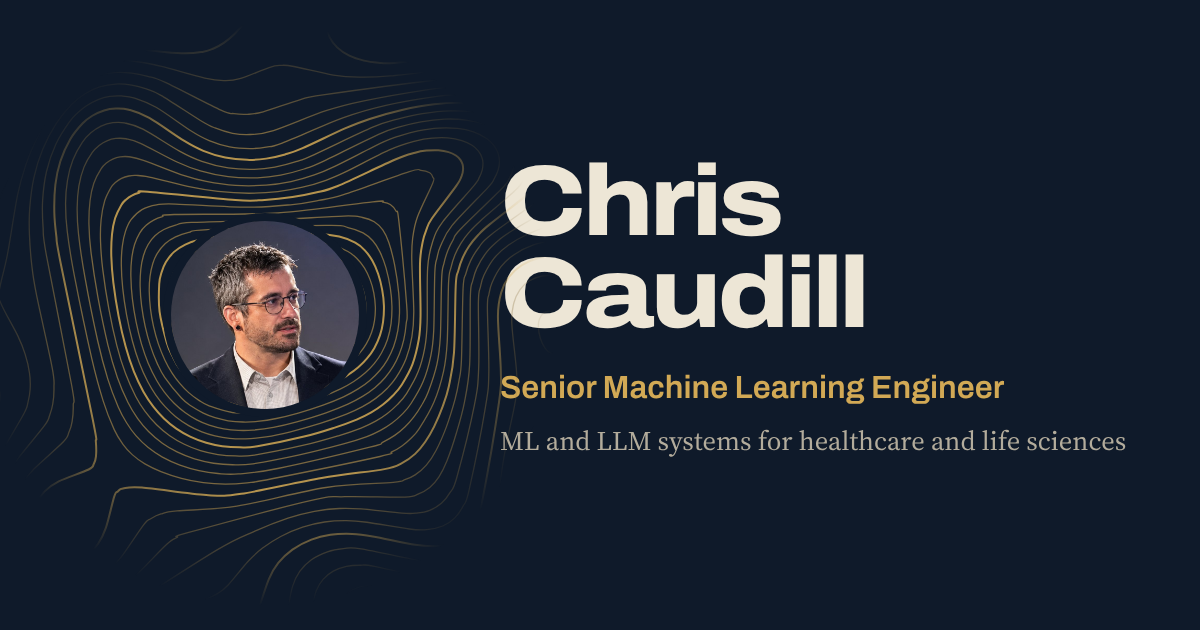
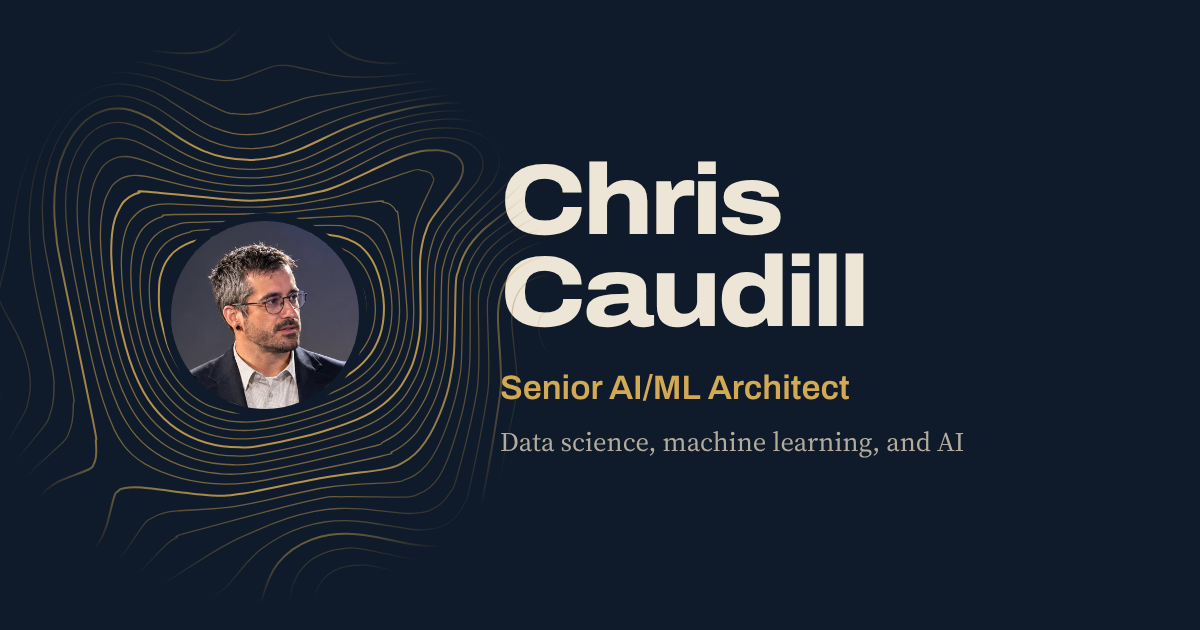
Add light theme toggle, rewrite copy, update title
- Light "day survey" theme alongside the default dark one, chosen with
  a header toggle; the choice is remembered and applied before first
  paint, and the browser theme color follows it
- Plainer copy throughout; title is now Senior AI/ML Architect, with
  more than a decade across data science, machine learning, and AI
- Metadata, JSON-LD, and social preview image updated to match

Claude-Session: https://claude.ai/code/session_015jcJZEzQ6ZcDAWNu1TrFER

diff --git a/index.html b/index.html
@@ -3,23 +3,33 @@
 <head>
   <meta charset="utf-8">
   <meta name="viewport" content="width=device-width, initial-scale=1">
-  <title>Chris Caudill, Senior Machine Learning Engineer</title>
-  <meta name="description" content="Chris Caudill is a senior machine learning engineer at Snowflake who builds ML and LLM systems for healthcare and life sciences, from retrieval-augmented generation to production ML platforms.">
+  <title>Chris Caudill, Senior AI/ML Architect</title>
+  <meta name="description" content="Chris Caudill is a Senior AI/ML Architect at Snowflake with more than a decade of experience across data science, machine learning, and AI, focused on healthcare and life sciences.">
   <link rel="canonical" href="https://cscaudill.github.io/">
   <meta name="theme-color" content="#0f1a2a">
-  <meta name="color-scheme" content="dark">
+  <meta name="color-scheme" content="dark light">
 
   <meta property="og:type" content="profile">
-  <meta property="og:title" content="Chris Caudill, Senior Machine Learning Engineer">
-  <meta property="og:description" content="ML and LLM systems for healthcare and life sciences, built where the data already lives.">
+  <meta property="og:title" content="Chris Caudill, Senior AI/ML Architect">
+  <meta property="og:description" content="Senior AI/ML Architect at Snowflake. More than a decade across data science, machine learning, and AI.">
   <meta property="og:url" content="https://cscaudill.github.io/">
   <meta property="og:image" content="https://cscaudill.github.io/assets/img/og.png">
   <meta property="og:image:width" content="1200">
   <meta property="og:image:height" content="630">
-  <meta property="og:image:alt" content="Chris Caudill, Senior Machine Learning Engineer">
+  <meta property="og:image:alt" content="Chris Caudill, Senior AI/ML Architect">
   <meta name="twitter:card" content="summary_large_image">
 
-  <script>document.documentElement.classList.add("js");</script>
+  <script>
+    (function () {
+      var d = document.documentElement, t = null;
+      d.classList.add("js");
+      try { t = localStorage.getItem("theme"); } catch (e) {}
+      if (t === "light") {
+        d.setAttribute("data-theme", "light");
+        document.querySelector('meta[name="theme-color"]').setAttribute("content", "#f5f6f8");
+      }
+    })();
+  </script>
   <link rel="icon" href="favicon.svg" type="image/svg+xml">
   <link rel="apple-touch-icon" href="assets/img/apple-touch-icon.png">
   <link rel="preload" href="assets/fonts/archivo.woff2" as="font" type="font/woff2" crossorigin>
@@ -31,13 +41,13 @@
     "@context": "https://schema.org",
     "@type": "Person",
     "name": "Chris Caudill",
-    "jobTitle": "Senior Machine Learning Engineer",
+    "jobTitle": "Senior AI/ML Architect",
     "worksFor": { "@type": "Organization", "name": "Snowflake" },
     "url": "https://cscaudill.github.io/",
     "image": "https://cscaudill.github.io/assets/img/portrait.jpg",
     "email": "mailto:cscaudill3@gmail.com",
     "sameAs": ["https://github.com/cscaudill"],
-    "knowsAbout": ["Machine learning", "Large language models", "Retrieval-augmented generation", "Snowflake", "AWS", "Healthcare and life sciences data", "MLOps"]
+    "knowsAbout": ["Data science", "Machine learning", "Artificial intelligence", "Large language models", "Retrieval-augmented generation", "Snowflake", "AWS", "Healthcare and life sciences data", "MLOps"]
   }
   </script>
 </head>
@@ -61,6 +71,11 @@
           <li><a class="button button--small" href="#contact">Contact</a></li>
         </ul>
       </nav>
+      <button class="theme-toggle" type="button" aria-pressed="false" title="Switch to light theme">
+        <span class="visually-hidden">Light theme</span>
+        <svg class="theme-toggle__sun" viewBox="0 0 24 24" aria-hidden="true" focusable="false"><circle cx="12" cy="12" r="4.2" fill="currentColor"/><g stroke="currentColor" stroke-width="2" stroke-linecap="round"><path d="M12 2.5v2.2M12 19.3v2.2M2.5 12h2.2M19.3 12h2.2M5.3 5.3l1.6 1.6M17.1 17.1l1.6 1.6M5.3 18.7l1.6-1.6M17.1 6.9l1.6-1.6"/></g></svg>
+        <svg class="theme-toggle__moon" viewBox="0 0 24 24" aria-hidden="true" focusable="false"><path fill="currentColor" d="M20.2 14.6A8.5 8.5 0 0 1 9.4 3.8a8.5 8.5 0 1 0 10.8 10.8Z"/></svg>
+      </button>
     </div>
     <div class="scroll-progress" aria-hidden="true"></div>
   </header>
@@ -70,9 +85,9 @@
       <div class="wrap hero__grid">
         <div class="hero__text">
           <h1 id="hero-title" class="hero__name"><span class="line"><span>Chris</span></span> <span class="line"><span>Caudill</span></span></h1>
-          <p class="hero__role">Senior Machine Learning Engineer at Snowflake</p>
-          <p class="hero__lead">I build machine learning and LLM systems that run where the data already lives, with a focus on healthcare and life sciences, where privacy isn&rsquo;t optional and &ldquo;it works on my laptop&rdquo; isn&rsquo;t good enough.</p>
-          <p class="hero__path">More than a decade in data, from ExxonMobil to AWS to Snowflake.</p>
+          <p class="hero__role">Senior AI/ML Architect at Snowflake</p>
+          <p class="hero__lead">I design and build machine learning and AI systems on enterprise data platforms. Most of my recent work is in healthcare and life sciences.</p>
+          <p class="hero__path">I have more than a decade of experience across data science, machine learning, and AI, from statistical modeling to production ML platforms and LLM applications, at ExxonMobil, AWS, and Snowflake.</p>
           <div class="hero__actions">
             <a class="button" href="mailto:cscaudill3@gmail.com">Email me</a>
             <a class="button button--quiet" href="#work">See selected work</a>
@@ -100,18 +115,18 @@
           <div class="focus">
             <div class="focus__item" data-reveal>
               <h3>Healthcare and life sciences ML</h3>
-              <p>Models for clinical and operational data, designed around privacy from the start: PHI-aware profiling, small-cell suppression, and synthetic data when the real thing can&rsquo;t leave the building.</p>
+              <p>Machine learning on clinical and operational data with strict privacy requirements, including PHI-aware data profiling, small-cell suppression, and synthetic data for development when real data isn&rsquo;t accessible.</p>
             </div>
             <div class="focus__item" data-reveal>
               <h3>LLM and RAG applications</h3>
-              <p>Retrieval-augmented apps that are measured, not eyeballed. Retrieval quality, grounding, and evaluation are part of the build, not an afterthought.</p>
+              <p>Retrieval-augmented generation applications with evaluation built in from the start, covering retrieval quality, grounding, and answer accuracy.</p>
             </div>
             <div class="focus__item" data-reveal>
               <h3>ML platforms and infrastructure</h3>
-              <p>The plumbing that gets models into production and keeps them healthy there: pipelines, CI/CD, monitoring, and checks that run after every deploy.</p>
+              <p>Pipelines, CI/CD, monitoring, and post-deployment checks that take models into production and keep them reliable.</p>
             </div>
           </div>
-          <p class="aside" data-reveal>I also teach. Explaining hard ideas plainly to analysts and engineers has been part of my work for years, and it&rsquo;s still one of my favorite parts.</p>
+          <p class="aside" data-reveal>I also teach data science and machine learning to analysts and engineers.</p>
         </div>
       </div>
     </section>
@@ -157,18 +172,18 @@
           <ol class="timeline">
             <li class="timeline__item" data-reveal>
               <h3>Snowflake</h3>
-              <p class="timeline__role">Senior Machine Learning Engineer</p>
-              <p>Building ML and generative AI solutions on Snowflake, with Cortex AI and Snowflake-native ML, for healthcare and life sciences use cases. I speak and write about running production ML on the platform.</p>
+              <p class="timeline__role">Senior AI/ML Architect</p>
+              <p>Design ML and generative AI solutions on Snowflake, using Cortex AI and Snowflake-native ML, primarily for healthcare and life sciences. I also speak and write about production ML on the platform.</p>
             </li>
             <li class="timeline__item" data-reveal>
               <h3>Amazon Web Services</h3>
               <p class="timeline__role">Machine learning</p>
-              <p>About five years designing, building, and running machine learning workloads in the cloud.</p>
+              <p>About five years designing, building, and operating machine learning workloads in the cloud.</p>
             </li>
             <li class="timeline__item" data-reveal>
               <h3>ExxonMobil</h3>
               <p class="timeline__role">Data Scientist</p>
-              <p>Where I started: applying statistics and machine learning to large-scale industrial data.</p>
+              <p>Applied statistics and machine learning to large-scale industrial data.</p>
             </li>
           </ol>
         </div>
@@ -190,12 +205,12 @@
             <article class="talk" data-reveal>
               <p class="talk__kind">Conference talk</p>
               <h3>Building and evaluating RAG applications with Snowflake Cortex Search</h3>
-              <p>A talk to a room of about 200 on building retrieval-augmented generation apps, and on how to tell whether they actually work.</p>
+              <p>A talk for an audience of about 200 on building retrieval-augmented generation applications and evaluating their quality.</p>
             </article>
             <article class="talk" data-reveal>
               <p class="talk__kind">Article</p>
               <h3>Enterprise machine learning on Snowflake</h3>
-              <p>A public technical article on running enterprise ML where the data already lives.</p>
+              <p>A technical article on running enterprise machine learning on Snowflake.</p>
             </article>
           </div>
         </div>
@@ -231,8 +246,8 @@
     <section class="contact" id="contact" aria-labelledby="contact-title">
       <div class="contact__terrain" aria-hidden="true"></div>
       <div class="wrap">
-        <h2 class="contact__title" id="contact-title" data-reveal>Let&rsquo;s talk</h2>
-        <p class="contact__lead" data-reveal>I&rsquo;m glad to talk about ML in healthcare, LLM applications that hold up in production, or data platforms. Email is the fastest way to reach me.</p>
+        <h2 class="contact__title" id="contact-title" data-reveal>Contact</h2>
+        <p class="contact__lead" data-reveal>Email is the best way to reach me. I&rsquo;m always interested in conversations about machine learning in healthcare, LLM applications, and data platforms.</p>
         <p class="contact__email" data-reveal><a href="mailto:cscaudill3@gmail.com">cscaudill3@gmail.com</a></p>
         <ul class="contact__links">
           <li><a href="https://github.com/cscaudill" rel="me">GitHub</a></li>

diff --git a/assets/css/site.css b/assets/css/site.css
@@ -31,6 +31,7 @@
   --on-accent: #1a1408;
   --deep: #0a1220;
   --on-deep: #ede6d6;
+  --deep-line: #d2a955;
 
   --font-ui: "Archivo", ui-sans-serif, system-ui, -apple-system, "Segoe UI", sans-serif;
   --font-text: "Source Serif 4", ui-serif, Georgia, "Times New Roman", serif;
@@ -46,6 +47,25 @@
   --header-h: 4rem;
 
   color-scheme: dark;
+}
+
+/* Day survey: the same map in daylight. Chosen with the header toggle. */
+:root[data-theme="light"] {
+  --paper: #f5f6f8;
+  --paper-2: #e9ecf1;
+  --ink: #0f1a2a;
+  --ink-soft: #4a5568;
+  --contour: #c4a463;
+  --contour-strong: #876212;
+  --rule: #d6dbe3;
+  --accent: #1d3b66;
+  --accent-hover: #142c4f;
+  --on-accent: #ffffff;
+  --deep: #0f1a2a;
+  --on-deep: #ede6d6;
+  --deep-line: #d2a955;
+
+  color-scheme: light;
 }
 
 
@@ -98,6 +118,16 @@ a:hover { color: var(--accent-hover); text-decoration-thickness: 2px; }
   max-width: var(--wrap);
   margin-inline: auto;
   padding-inline: var(--gutter);
+}
+
+.visually-hidden {
+  position: absolute !important;
+  width: 1px;
+  height: 1px;
+  overflow: hidden;
+  clip: rect(0 0 0 0);
+  clip-path: inset(50%);
+  white-space: nowrap;
 }
 
 .skip-link {
@@ -180,12 +210,12 @@ a:hover { color: var(--accent-hover); text-decoration-thickness: 2px; }
 .site-header__inner {
   display: flex;
   align-items: center;
-  justify-content: space-between;
-  gap: 1.5rem;
+  gap: 0.5rem;
   min-height: var(--header-h);
 }
 
 .wordmark {
+  margin-right: auto;
   font-family: var(--font-ui);
   font-weight: 750;
   font-stretch: 112%;
@@ -224,6 +254,27 @@ a:hover { color: var(--accent-hover); text-decoration-thickness: 2px; }
   text-underline-offset: 0.4em;
 }
 .site-nav li:last-child { margin-left: 0.5rem; }
+
+/* Theme toggle: shows the sun in the dark theme, the moon in the light one */
+.theme-toggle {
+  display: none;
+  align-items: center;
+  justify-content: center;
+  width: 2.75rem;
+  height: 2.75rem;
+  margin-left: 0.25rem;
+  border: 1px solid var(--rule);
+  border-radius: 50%;
+  background: transparent;
+  color: var(--ink);
+  cursor: pointer;
+}
+.js .theme-toggle { display: inline-flex; }
+.theme-toggle:hover { border-color: var(--contour-strong); color: var(--contour-strong); }
+.theme-toggle svg { width: 1.25rem; height: 1.25rem; }
+.theme-toggle__moon { display: none; }
+[data-theme="light"] .theme-toggle__sun { display: none; }
+[data-theme="light"] .theme-toggle__moon { display: block; }
 
 .menu-toggle {
   display: none;
@@ -635,7 +686,7 @@ a:hover { color: var(--accent-hover); text-decoration-thickness: 2px; }
   pointer-events: none;
 }
 .contact__terrain svg { width: 100%; height: 100%; }
-.contact__terrain path { fill: none; stroke: var(--contour-strong); stroke-width: 1.2; vector-effect: non-scaling-stroke; }
+.contact__terrain path { fill: none; stroke: var(--deep-line); stroke-width: 1.2; vector-effect: non-scaling-stroke; }
 .contact__terrain path.ix { stroke-width: 2; }
 @media (max-width: 860px) { .contact__terrain { right: -45%; width: 140vw; opacity: 0.12; } }
 
@@ -651,6 +702,12 @@ a:hover { color: var(--accent-hover); text-decoration-thickness: 2px; }
 }
 
 @media (prefers-reduced-motion: no-preference) {
+  html.theme-switching *,
+  html.theme-switching *::before,
+  html.theme-switching *::after {
+    transition: background-color 350ms ease, color 350ms ease, border-color 350ms ease, stroke 350ms ease, fill 350ms ease, box-shadow 350ms ease !important;
+  }
+
   .button, .icon-link { transition: background-color var(--dur-fast) ease, border-color var(--dur-fast) ease, color var(--dur-fast) ease, translate var(--dur-fast) var(--ease-out); }
   .button:hover { translate: 0 -2px; }
   .button:active { translate: 0 0; }

diff --git a/assets/js/site.js b/assets/js/site.js
@@ -9,6 +9,34 @@
   var nav = document.getElementById("site-nav");
   var navList = nav.querySelector("ul");
 
+  /* ---------- Theme toggle (dark by default; the choice is remembered) ---------- */
+  var themeToggle = document.querySelector(".theme-toggle");
+  var themeColor = document.querySelector('meta[name="theme-color"]');
+
+  function syncThemeToggle() {
+    var light = root.getAttribute("data-theme") === "light";
+    themeToggle.setAttribute("aria-pressed", String(light));
+    themeToggle.title = light ? "Switch to dark theme" : "Switch to light theme";
+    if (themeColor) themeColor.setAttribute("content", light ? "#f5f6f8" : "#0f1a2a");
+  }
+
+  if (themeToggle) {
+    syncThemeToggle();
+    themeToggle.addEventListener("click", function () {
+      var light = root.getAttribute("data-theme") !== "light";
+      root.classList.add("theme-switching");
+      if (light) root.setAttribute("data-theme", "light");
+      else root.removeAttribute("data-theme");
+      try {
+        localStorage.setItem("theme", light ? "light" : "dark");
+      } catch (e) {}
+      syncThemeToggle();
+      window.setTimeout(function () {
+        root.classList.remove("theme-switching");
+      }, 400);
+    });
+  }
+
   /* ---------- Mobile menu ---------- */
   function setOpen(open) {
     toggle.setAttribute("aria-expanded", String(open));
